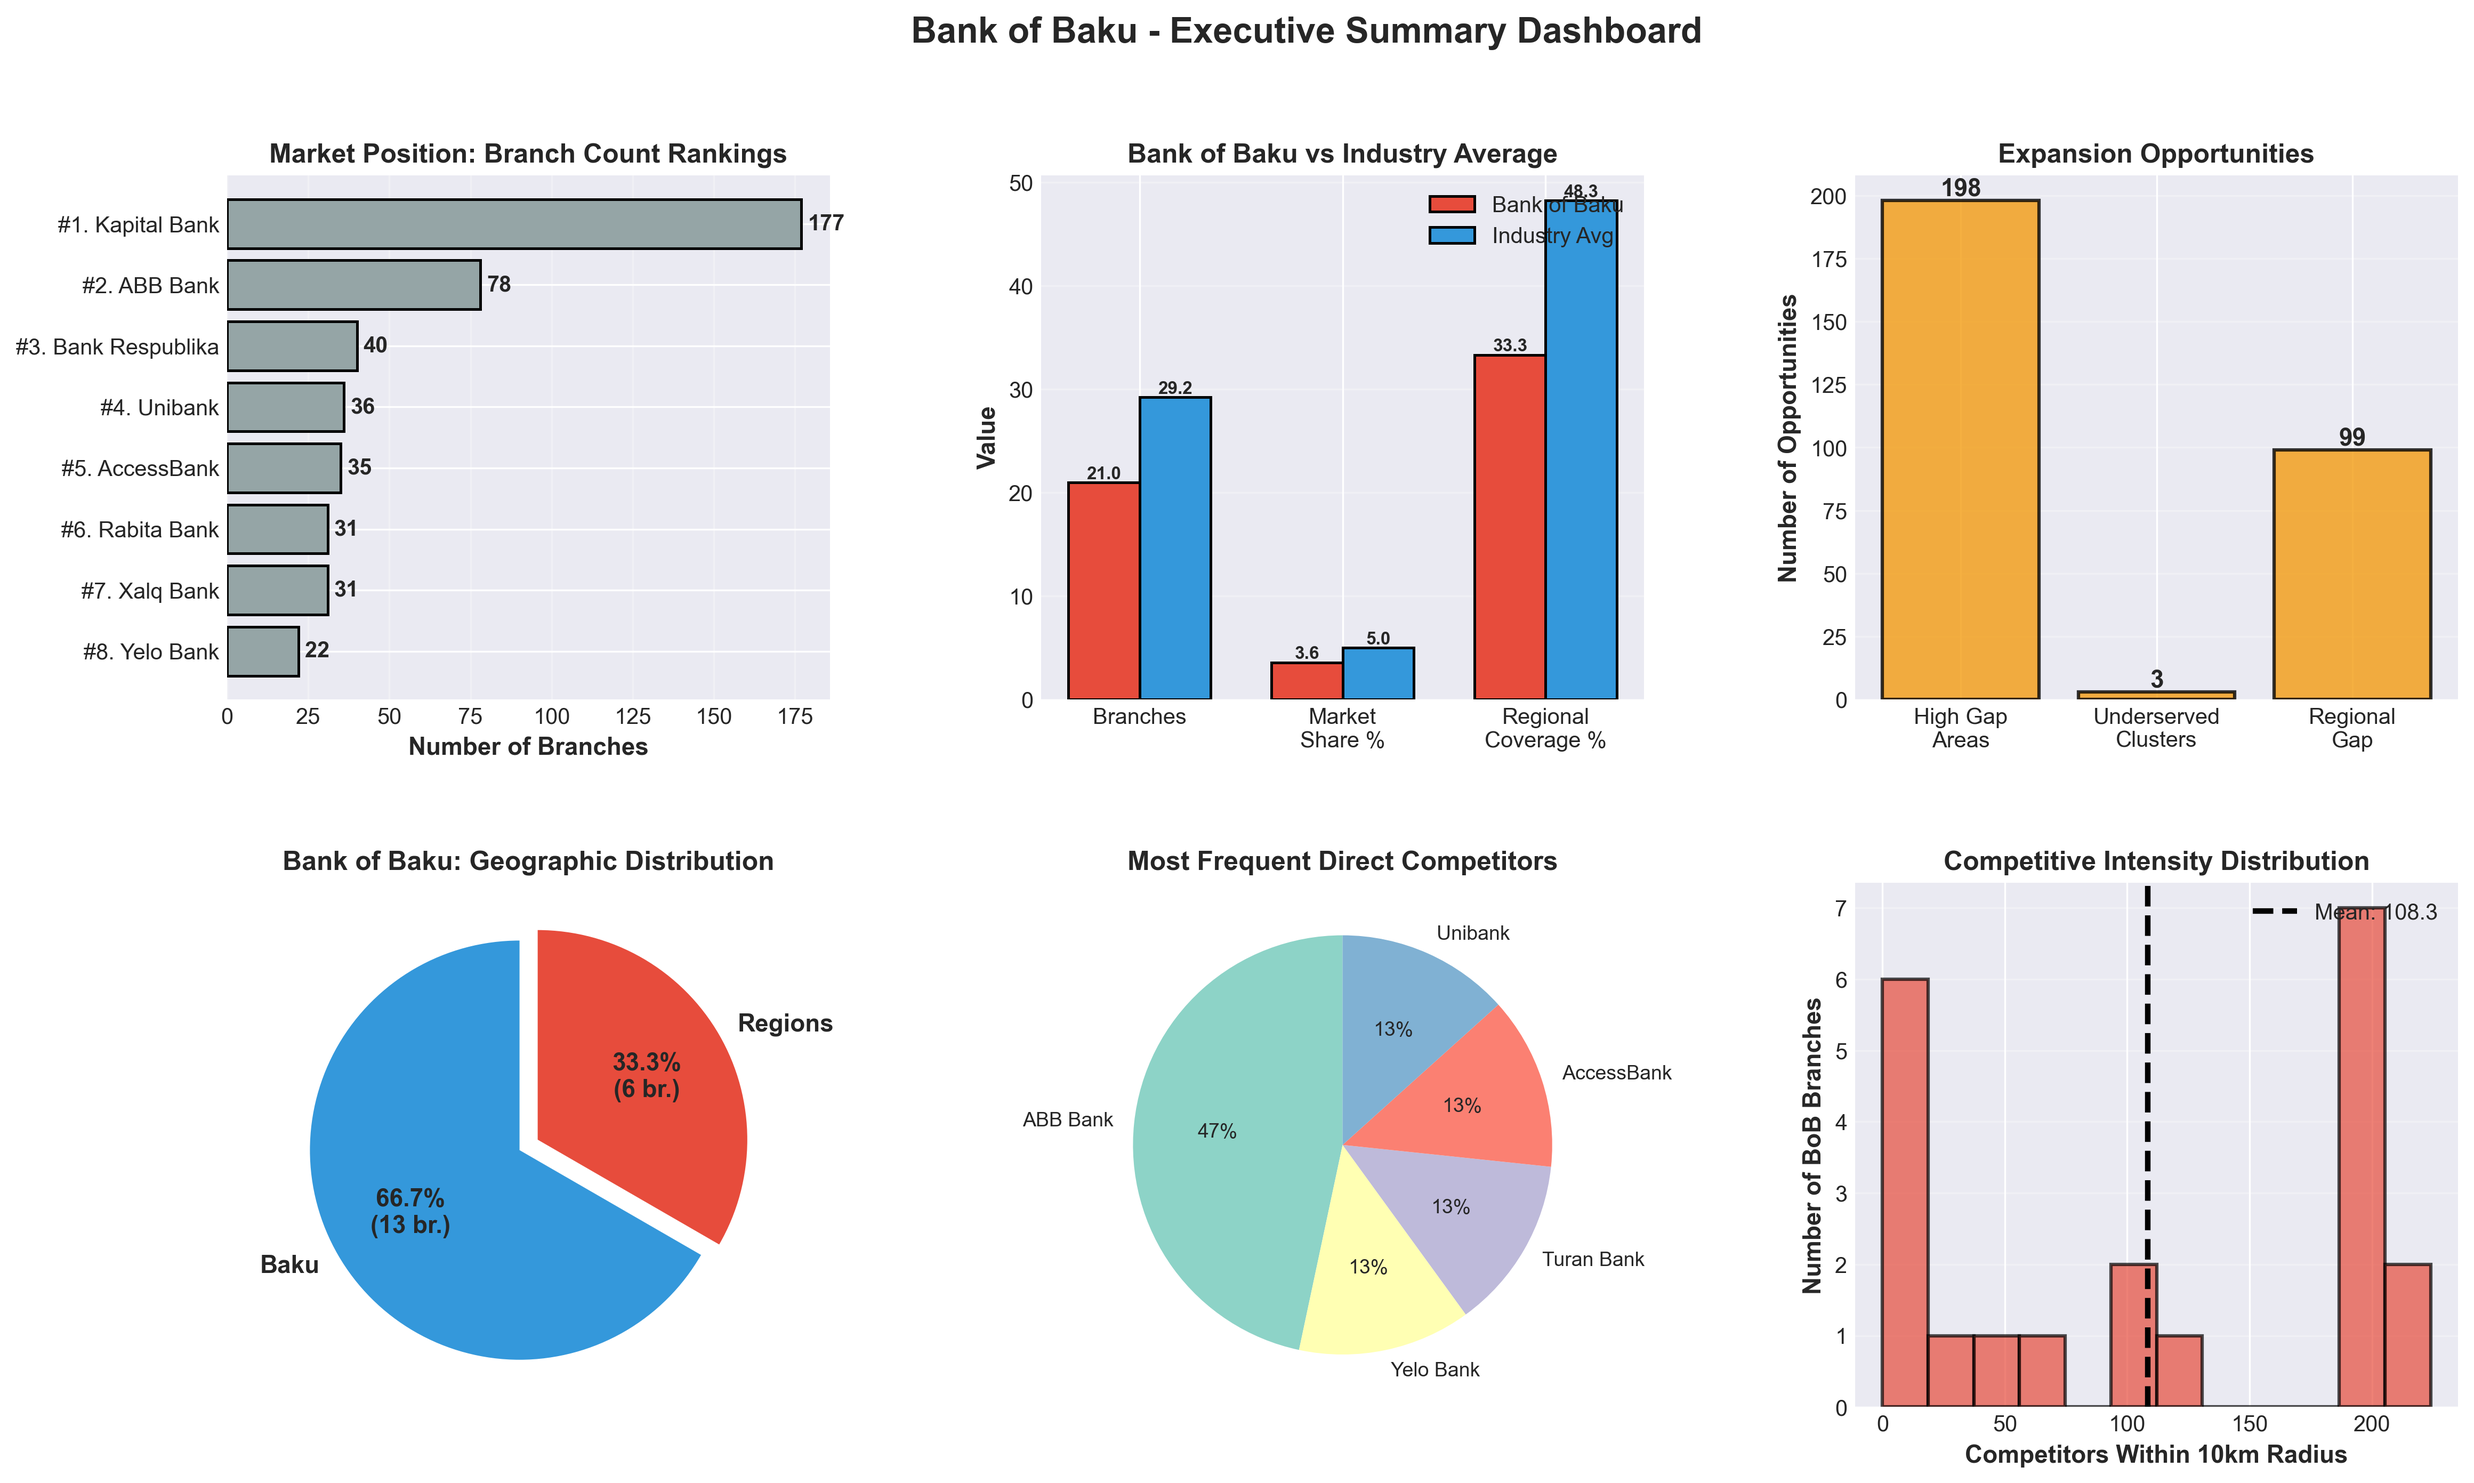
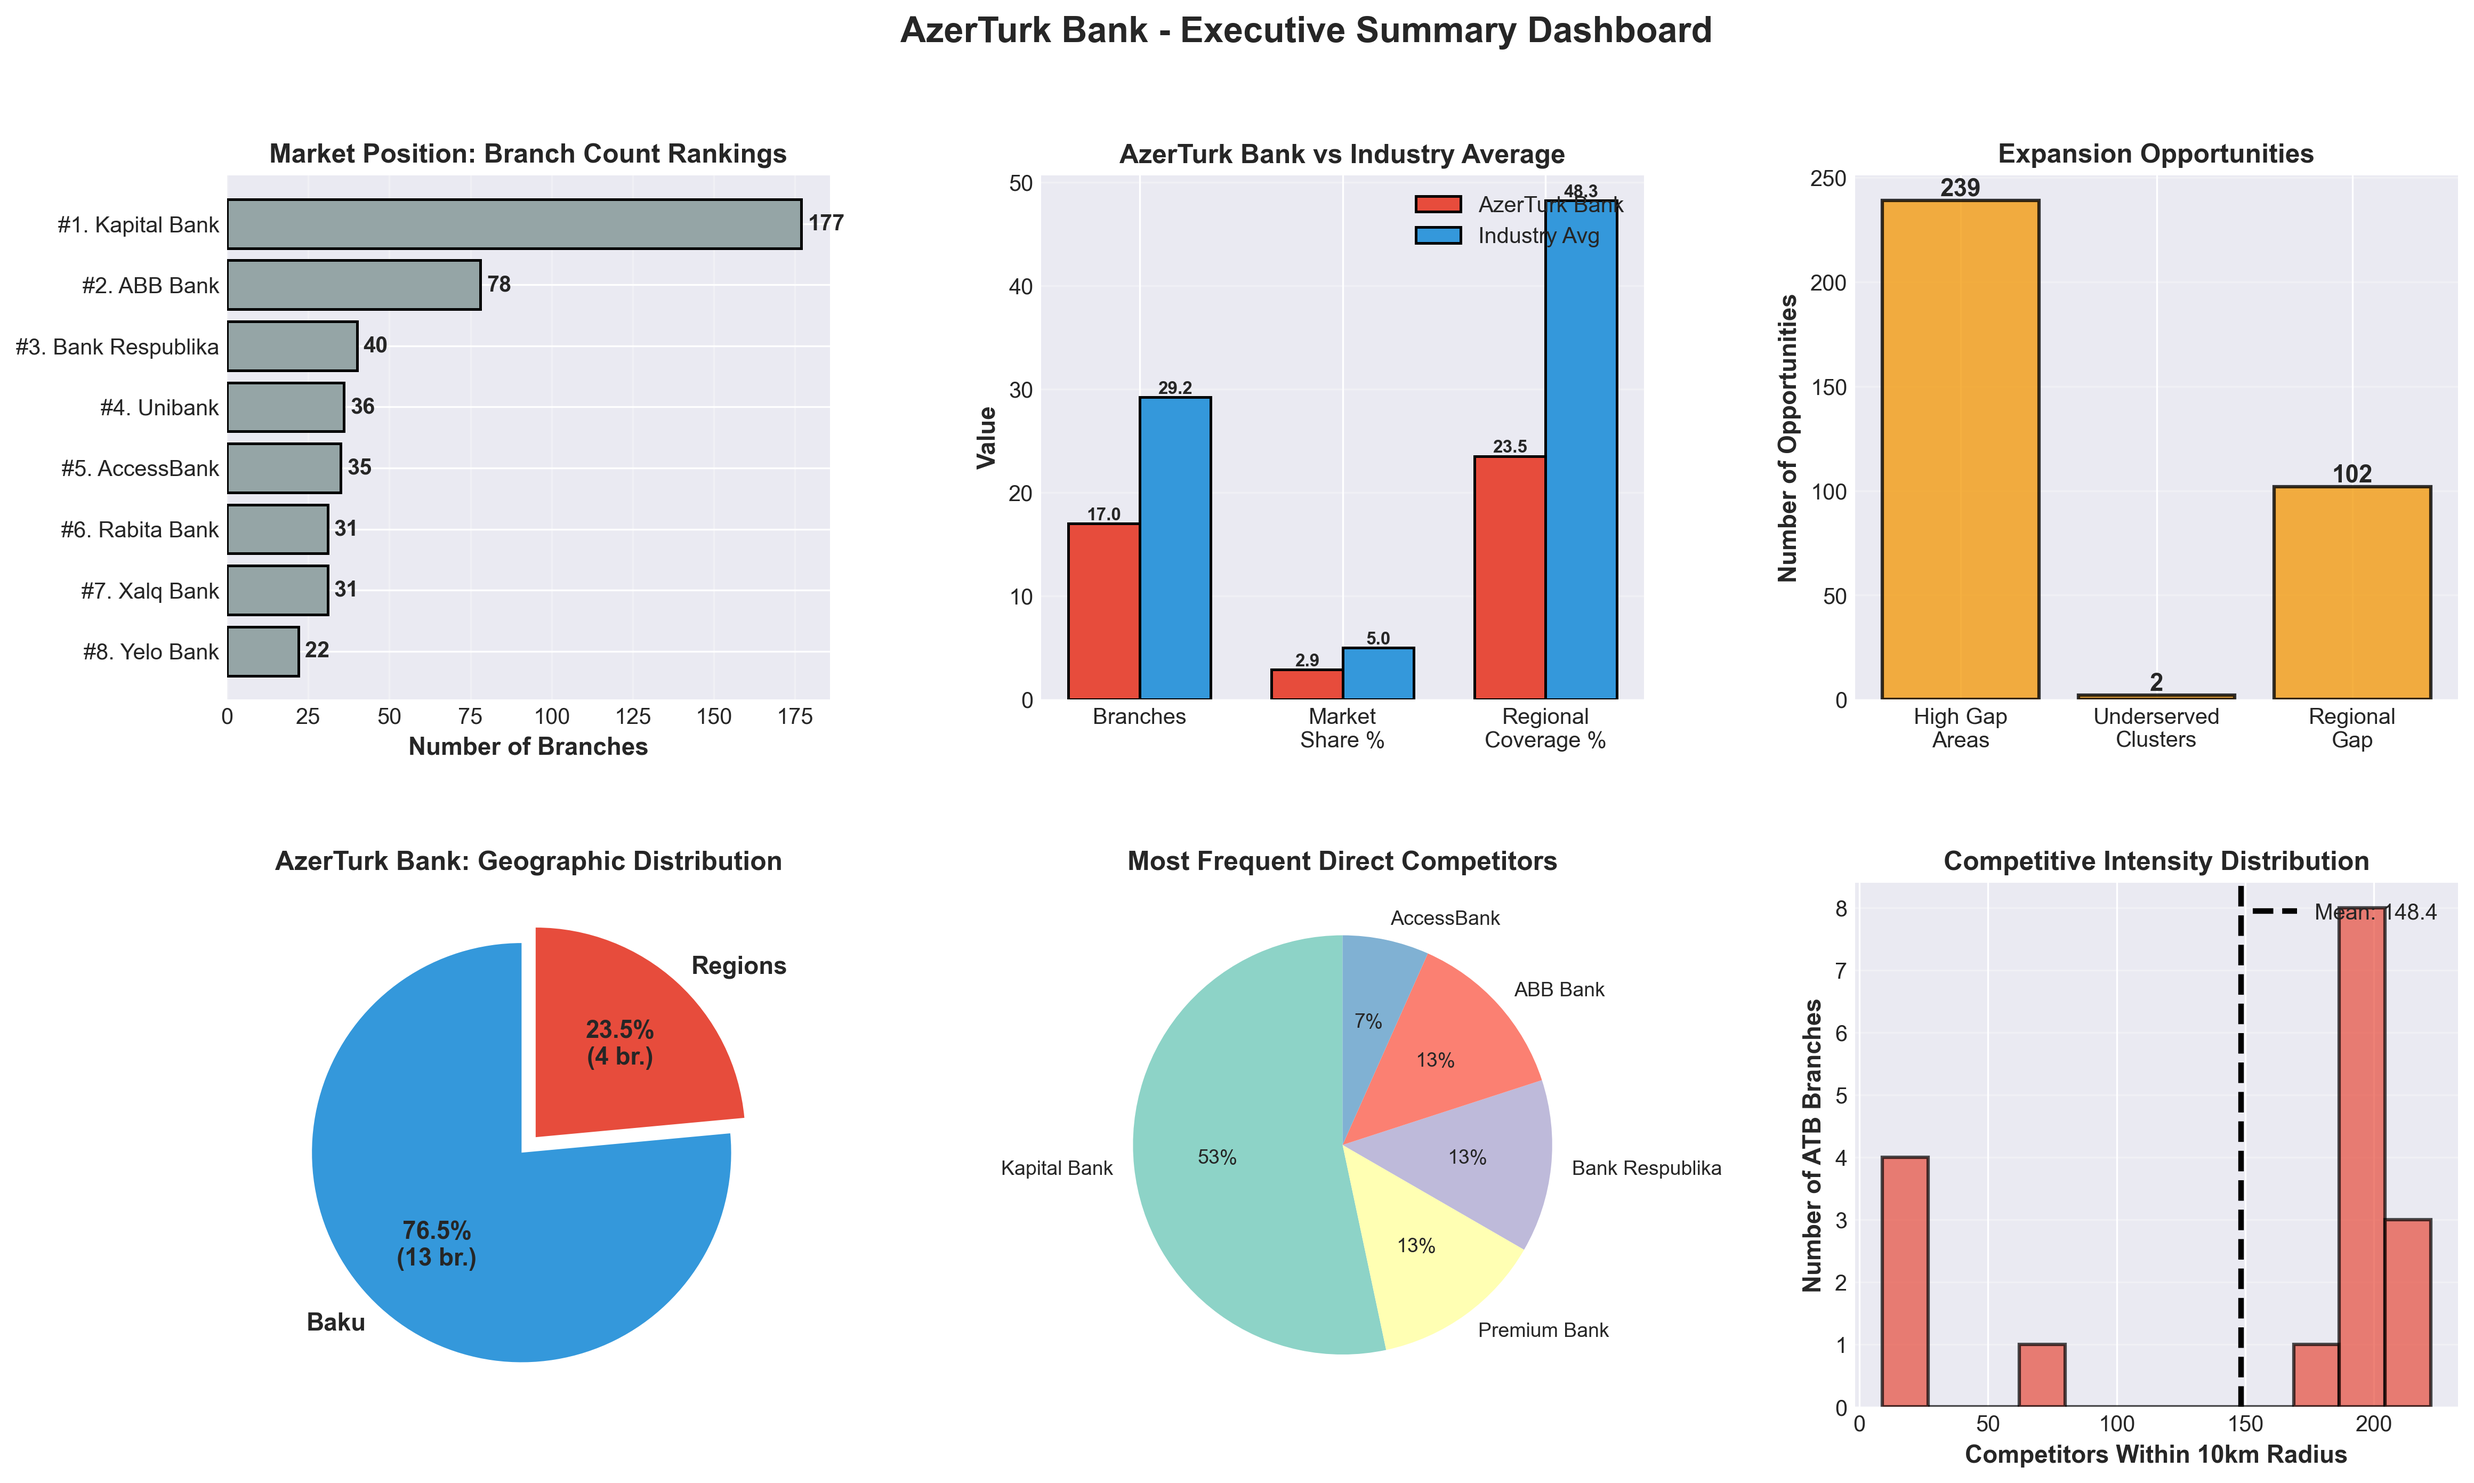
init
Source: https://github.com/GameHelix/yahtzee/commit/02c099bbec1a9b4bf767f63dde5aab793d4a211b

diff --git a/earlier/GameHelix/yahtzee/scripts/run_analysis.py b/earlier/GameHelix/yahtzee/scripts/run_analysis.py
@@ -1576,7 +1576,7 @@ print("Generating Strategic Insights Report...")
 
 insights_report = f"""
 ================================================================================
-BANK OF BAKU - STRATEGIC ANALYSIS & ACTIONABLE INSIGHTS
+AZERTURK BANK - STRATEGIC ANALYSIS & ACTIONABLE INSIGHTS
 ================================================================================
 Generated: {pd.Timestamp.now().strftime('%Y-%m-%d %H:%M:%S')}
 
@@ -1813,7 +1813,7 @@ print(" 14. Multi-Metric Comparison")
 print(" 15. Strategic Recommendations Summary")
 print()
 print("=" * 80)
-print("KEY INSIGHTS FOR BANK OF BAKU:")
+print("KEY INSIGHTS FOR AZERTURK BANK:")
 print("=" * 80)
 print(f"• Current Position: Rank #{atb_rank} with {atb_count} branches ({atb_count/total_count*100:.1f}% market share)")
 print(f"• Baku Concentration: {atb_region['Baku']/atb_count*100:.1f}% of branches")

diff --git a/earlier/GameHelix/yahtzee/README.md b/earlier/GameHelix/yahtzee/README.md
@@ -318,13 +318,9 @@ Number of competitors within 10km radius of each branch. Left: bank comparison. 
 Analysis of AzerTurk Bank's presence across Azerbaijan's actual geographic regions (Baku City, Absheron, North, Northwest, Central, South, West). Shows which banks dominate each zone and where ATB needs to expand.
 
 **Key Insights:**
-- **Baku City:** ATB presence needs recalculation for 17 branches
-- **Absheron Peninsula:** ATB has 2 branches (4.8% share, Rank #4) - decent position
-- **North Zone:** ATB has 2 branches (2.8% share, Rank #9) - weak presence
-- **Northwest Zone:** ATB has 1 branch (1.1% share, Rank #13) - very weak presence
-- **Central Zone:** ATB has **NO presence** - Kapital Bank leads with 12 branches
-- **South Zone:** ATB has 1 branch (5.3% share, Rank #3) - surprisingly good ranking
-- **West Zone:** ATB has **NO presence** - Kapital Bank leads with 10 branches
+- **All zone-specific stats need recalculation for ATB's 17 branches**
+- Zone presence, market shares, and rankings will differ from previous BoB analysis
+- Kapital Bank remains the dominant leader in Central (12 branches) and West (10 branches) zones
 
 **Critical Finding:**
 Two entire regions (Central and West) have **ZERO AzerTurk Bank branches** while Kapital Bank dominates with 12 and 10 branches respectively.
@@ -349,7 +345,7 @@ Focused heatmap for **Baku-Absheron region** (coordinates: 40.30-40.65°N, 49.60
 
 **Current Status:**
 - **292 total branches** in Baku-Absheron area
-- **16 AzerTurk Bank branches** (5.5% of area total)
+- **AzerTurk Bank branches** (needs recalculation for 17 total branches)
 - High competitive density requires precise targeting
 
 **Scoring Methodology (Urban-Optimized):**
@@ -383,7 +379,7 @@ Heatmap for **all regions outside Baku-Absheron**, scoring rural/regional expans
 
 **Current Status:**
 - **293 total branches** in regional Azerbaijan
-- **Only 5 AzerTurk Bank branches** (1.7% of regional total)
+- **AzerTurk Bank branches** (needs recalculation for 17 total branches)
 - **Significant expansion gap** compared to Baku presence
 
 **Scoring Methodology (Regional-Optimized):**

diff --git a/earlier/GameHelix/yahtzee/docs/CALCULATIONS.md b/earlier/GameHelix/yahtzee/docs/CALCULATIONS.md
@@ -641,13 +641,9 @@ for zone in zones:
 - **ATB Rank:** Position within each zone
 
 **Results Summary:**
-- **Baku City:** ATB presence needs recalculation for 17 branches
-- **Absheron:** ATB has 2 branches (4.8% share, Rank #4)
-- **North:** ATB has 2 branches (2.8% share, Rank #9)
-- **Northwest:** ATB has 1 branch (1.1% share, Rank #13)
-- **Central:** ATB has NO presence (Leader: Kapital Bank with 12 branches)
-- **South:** ATB has 1 branch (5.3% share, Rank #3)
-- **West:** ATB has NO presence (Leader: Kapital Bank with 10 branches)
+- **All zone-specific stats need recalculation for ATB's 17 branches**
+- Zone presence, market shares, and rankings will differ from previous analysis
+- Kapital Bank remains the dominant leader in Central (12 branches) and West (10 branches) zones
 
 ### Strategic Insight
 Two regions with **zero AzerTurk Bank presence** (Central and West) represent high-priority expansion targets. Kapital Bank dominates both zones.
@@ -701,7 +697,7 @@ def calculate_opportunity_score_baku(point):
 ### Output Metrics
 - **Grid Points:** 1,225 locations evaluated
 - **Top 15 Opportunities:** Highest scoring coordinates
-- **Current Status:** 292 total branches, 16 ATB branches (5.5%)
+- **Current Status:** 292 total branches, ATB branches needs recalculation
 
 ---
 
@@ -755,7 +751,7 @@ def calculate_opportunity_score_regions(point):
 ### Output Metrics
 - **Grid Points:** 900 locations evaluated
 - **Top 15 Opportunities:** Highest scoring coordinates
-- **Current Status:** 293 total branches, 5 ATB branches (1.7%)
+- **Current Status:** 293 total branches, ATB branches needs recalculation
 
 ### Key Difference from Chart 13a
 - Larger competitor search radius (30km vs 5km)
